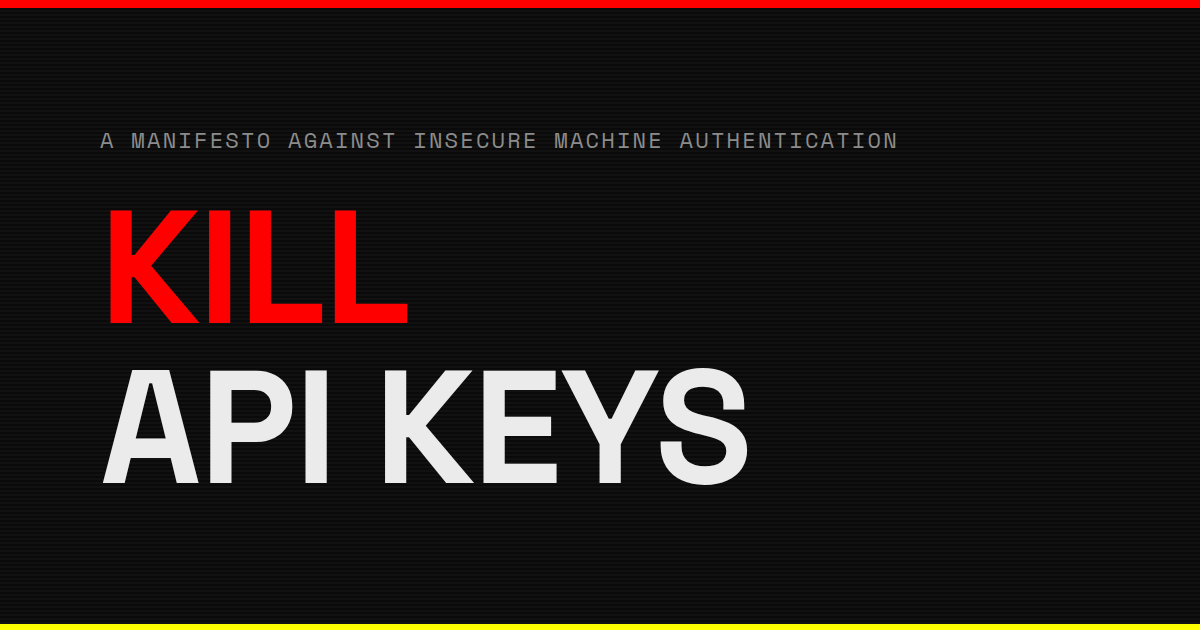
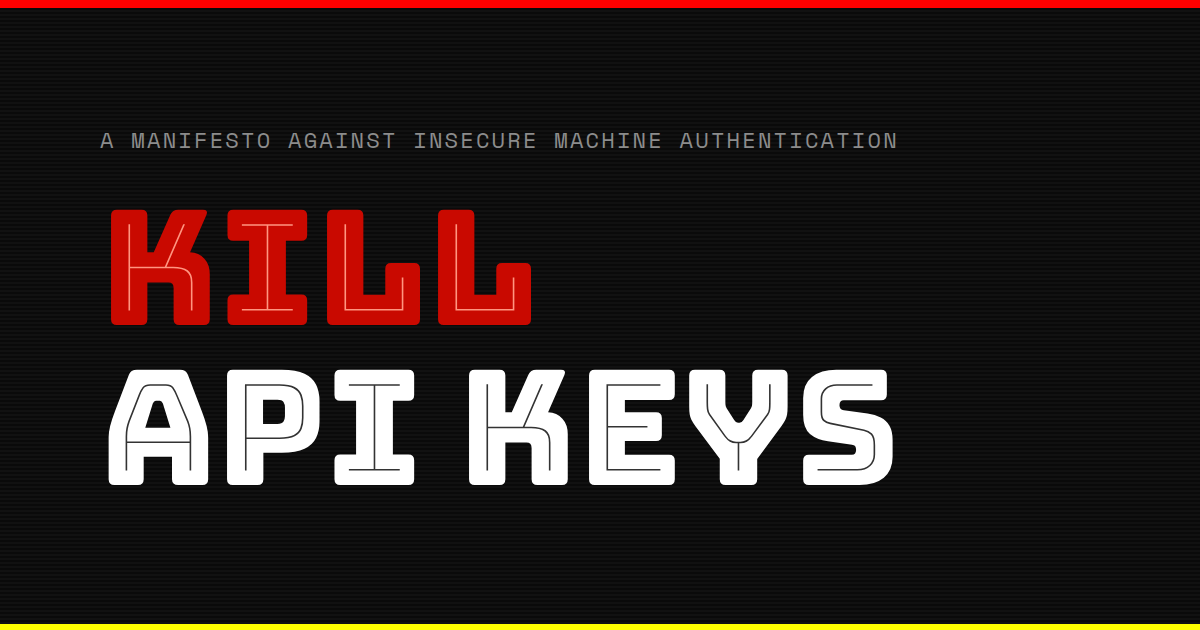
Switch hero title font to Bungee Tint
Replace Space Grotesk with Bungee Tint for the hero h1. Uses
@font-palette-values to render "API KEYS" in white with dark gray
tint lines and "KILL" in the default red chromatic palette.
Regenerated OG image to match.

Changed region(s): [[0.0925, 0.573, 0.7708, 0.7841], [0.0925, 0.3317, 0.4625, 0.5429]]

diff --git a/styles.css b/styles.css
@@ -1,5 +1,5 @@
 /* ── Fonts ───────────────────────────────────────────────── */
-@import url('https://fonts.googleapis.com/css2?family=Space+Mono:ital,wght@0,400;0,700;1,400;1,700&family=Space+Grotesk:wght@300;400;500;600;700&display=swap');
+@import url('https://fonts.googleapis.com/css2?family=Bungee+Tint&family=Space+Mono:ital,wght@0,400;0,700;1,400;1,700&family=Space+Grotesk:wght@300;400;500;600;700&display=swap');
 
 /* ── Base tokens ────────────────────────────────────────── */
 :root {
@@ -16,6 +16,12 @@
 
   --font-mono: 'Space Mono', monospace;
   --font-display: 'Space Grotesk', sans-serif;
+  --font-title: 'Bungee Tint', system-ui;
+}
+
+@font-palette-values --tint-white {
+  font-family: 'Bungee Tint';
+  override-colors: 0 #fff, 1 hsl(0 0% 20%);
 }
 
 /* ── Reset ──────────────────────────────────────────────── */
@@ -128,14 +134,15 @@ hero-content {
   margin-bottom: 1.5rem;
 }
 .hero h1 {
-  font-family: var(--font-display);
-  font-size: clamp(4rem, 12vw, 10rem);
-  font-weight: 700;
+  font-family: var(--font-title);
+  font-size: clamp(3rem, 10vw, 8rem);
+  font-weight: 400;
   line-height: 1;
-  letter-spacing: -0.05em;
+  letter-spacing: 0;
   margin-bottom: 2rem;
+  font-palette: --tint-white;
 }
-.hero h1 .text-danger { color: var(--danger); animation: glitch 3s infinite; }
+.hero h1 .text-danger { font-palette: normal; animation: glitch 3s infinite; }
 .hero-lead {
   font-family: var(--font-display);
   font-size: 1.5rem;
